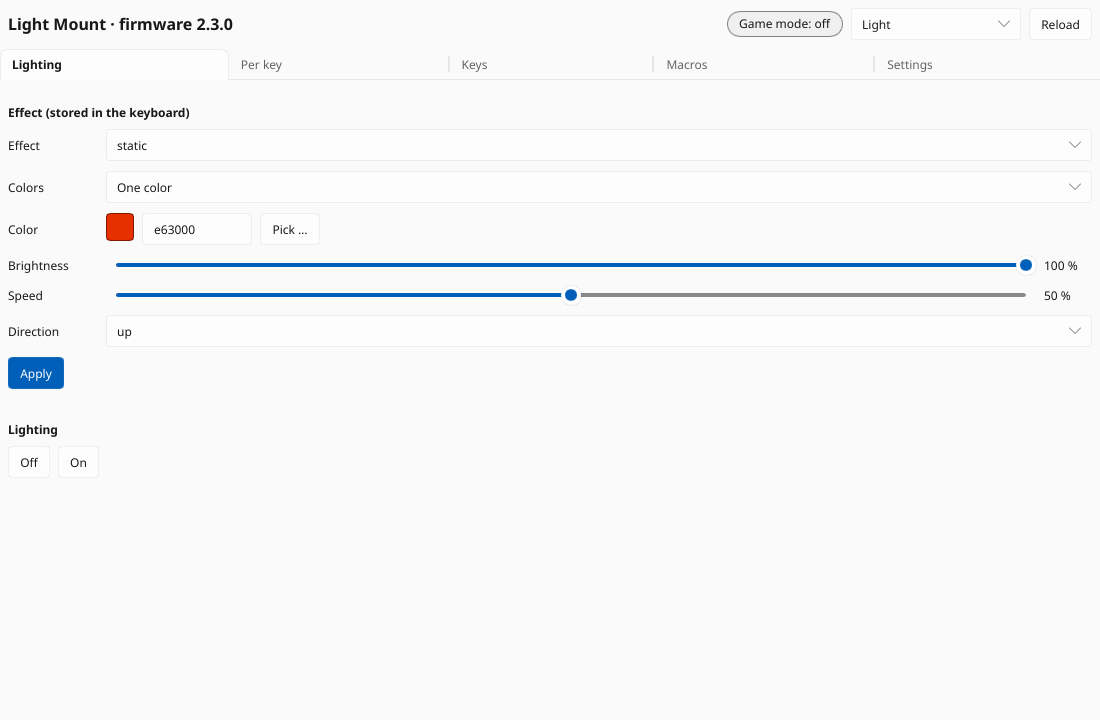
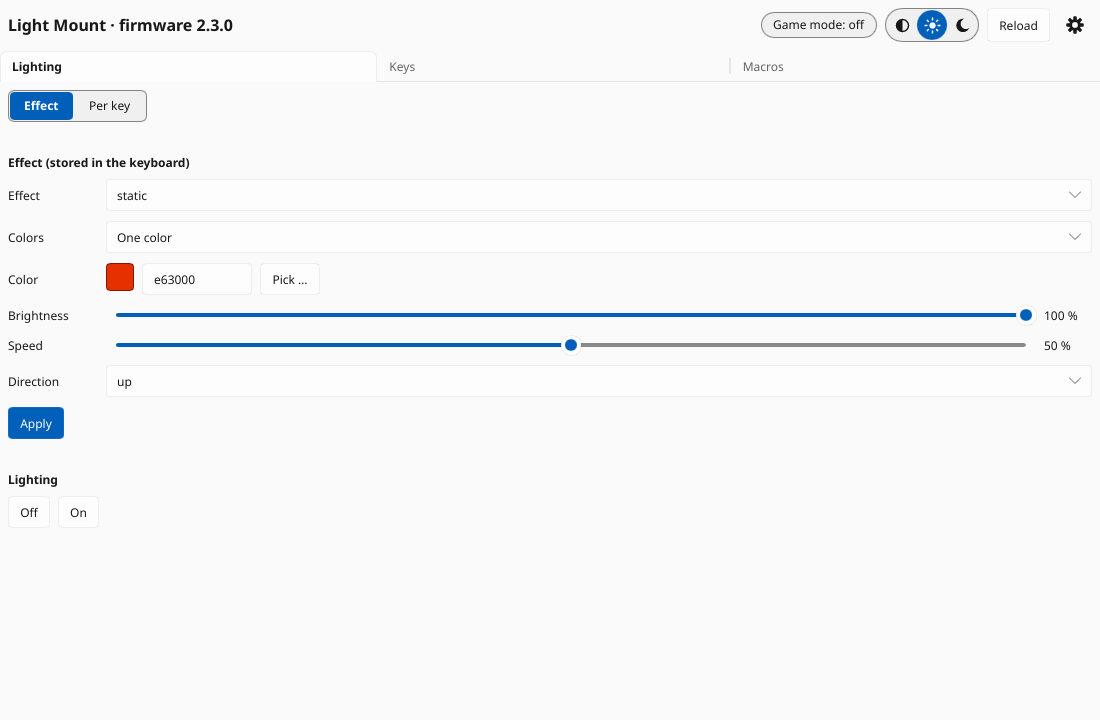
GUI: per key inside Lighting, settings behind a gear, theme switch
- Lighting has a switch "Effect | Per key" at the top. "Per key" shows
  the per-key view in the same tab, and that tab is gone. Switching
  changes only the view, not the keyboard.
- The settings open from a gear in the top right corner, in place of
  the tabs. The gear again or "Back" returns.
- The theme is a three-position switch (system, light, dark) with
  icons; click a position. The icons (gear, sun, moon, half circle) are
  our own SVGs.
- Docs and screenshots.

diff --git a/crates/quietlinux-gui/src/screenshot.rs b/crates/quietlinux-gui/src/screenshot.rs
@@ -35,8 +35,17 @@ pub fn run(path: &Path, page: i32, theme: i32) -> Result<(), Box<dyn Error>> {
     });
     let outcome = Backend::demo().handle(Request::Refresh);
     with_controller(|c, ui| c.apply(ui, outcome));
-    ui.set_page(page);
     ui.set_theme(theme);
+    // views: lighting effect, lighting per key, keys, macros, settings
+    let (tab, lighting_view) = match page {
+        0 | 1 => (0, page),
+        2 => (1, 0),
+        3 => (2, 0),
+        _ => (0, 0),
+    };
+    ui.set_page(tab);
+    ui.set_lighting_view(lighting_view);
+    ui.set_settings_open(page == 4);
     match page {
         1 => with_controller(|c, ui| {
             // a few painted keys

diff --git a/crates/quietlinux-gui/src/main.rs b/crates/quietlinux-gui/src/main.rs
@@ -57,7 +57,7 @@ struct Cli {
     /// Draw the window of the demo mode into an image (PPM) and quit; for the docs
     #[arg(long, value_name = "FILE", hide = true)]
     screenshot: Option<PathBuf>,
-    /// Tab for --screenshot: 0 lighting, 1 per key, 2 keys, 3 macros, 4 settings
+    /// View for --screenshot: 0 lighting effect, 1 lighting per key, 2 keys, 3 macros, 4 settings
     #[arg(long, default_value_t = 0, hide = true)]
     page: i32,
     /// Theme for --screenshot: 0 system, 1 light, 2 dark

diff --git a/docs/usage-gui.md b/docs/usage-gui.md
@@ -18,8 +18,10 @@ The title line shows whether **game mode** is on. Game mode is switched on the
 keyboard with Fn+Pause, so the window asks for it every 2 seconds (a read-only
 request; not while a change is being sent).
 
-The box next to **Reload** chooses the light or dark theme, or the system's.
-The choice is saved in `~/.config/quietlinux/gui.toml`.
+The switch next to **Reload** chooses the theme: the system's (half circle),
+light (sun) or dark (moon); click a position. The choice is saved in
+`~/.config/quietlinux/gui.toml`. The gear in the corner opens the
+[settings](#settings).
 
 The window does not support screen readers yet (see [todo.md](todo.md)); the
 command line tool does everything it does.
@@ -29,6 +31,12 @@ On a firmware version QuietLinux was not tested with, the title says
 `--allow-unknown-firmware`.
 
 ## Lighting
+
+The switch at the top of the tab chooses what to edit: **Effect** (stored in the
+keyboard) or **Per key** (colors for single keys). Switching changes only the
+view, not the keyboard.
+
+### Effect
 
 ![The lighting tab](images/gui-lighting.png)
 
@@ -49,9 +57,9 @@ On a firmware version QuietLinux was not tested with, the title says
 - **Off** / **On** switch the lighting off and on, like IO Center's switch. The
   effect stays stored.
 
-## Per key
+### Per key
 
-![The per key tab](images/gui-per-key.png)
+![Per-key colors](images/gui-per-key.png)
 
 Colors for single keys, like `quietlinux light set`:
 
@@ -62,7 +70,7 @@ Colors for single keys, like `quietlinux light set`:
   empty means off.
 - Changes show on the keyboard at once (realtime mode).
 - These colors are **not stored** in the keyboard: unplugging it ends them,
-  and so do **Back to effect** or applying an effect in the Lighting tab. A
+  and so do **Back to effect** or applying an effect. A
   background service that keeps them is planned ([todo.md](todo.md)).
 
 ## Keys
@@ -106,7 +114,10 @@ keyboard has no other way), as described in
 
 ## Settings
 
-![The settings tab](images/gui-settings.png)
+![The settings](images/gui-settings.png)
+
+The gear in the top right corner shows the settings instead of the tabs; the
+gear again or **Back** returns.
 
 - **Game mode**: the shortcuts game mode blocks, as `quietlinux game-mode
   --block`. Fn+Pause switches game mode on and off.
